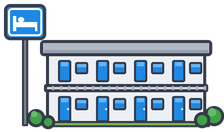
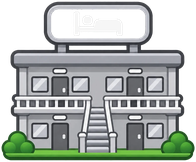
New Motel art with a tint layer for the owner's color on its sign
Replaces the placeholder motel picture with the owner's sprite (base +
motel-tint.png), cropped and scaled like the other property images.

Claude-Session: https://claude.ai/code/session_01EuN63CBabUhHG8UqQFvBhT

diff --git a/apps/client/src/ui/lab.ts b/apps/client/src/ui/lab.ts
@@ -109,24 +109,7 @@ const rnd = (n: number) => Math.floor(Math.random() * n);
  * Controls for UI elements that were just added or changed: they shake once and glow so they
  * are easy to find. Update this list with each change.
  */
-const RECENT = new Set([
-  'Player card',
-  'Game setup',
-  'Game setup (friend joined)',
-  'Joined game (locked setup)',
-  'New squares and Motel',
-  'Zoom in',
-  'Build',
-  'Renovate',
-  'Swap target',
-  'Motel stop',
-  'Taxi / fly anywhere (no highlights)',
-  'Live auction',
-  'Coin Derby',
-  'Lucky Wheel',
-  'Treasure Split',
-  'Guide',
-]);
+const RECENT = new Set(['Build', 'New squares and Motel', 'Design gallery']);
 
 /** Which board the lab plays on: Town (square) or Twin Lakes (hex), remembered per browser. */
 const LAB_BOARD_KEY = 'aa-lab-board';

diff --git a/apps/client/src/changelog.ts b/apps/client/src/changelog.ts
@@ -57,6 +57,7 @@ export const CHANGELOG: ChangelogEntry[] = [
       },
     ],
     extras: [
+      'New motel art: its sign shows the owner’s color',
       'The build menu shows how many of each building are left',
       'Flying or riding anywhere no longer lights up every square',
       'The 250% zoom is as close on big boards as on small ones',
